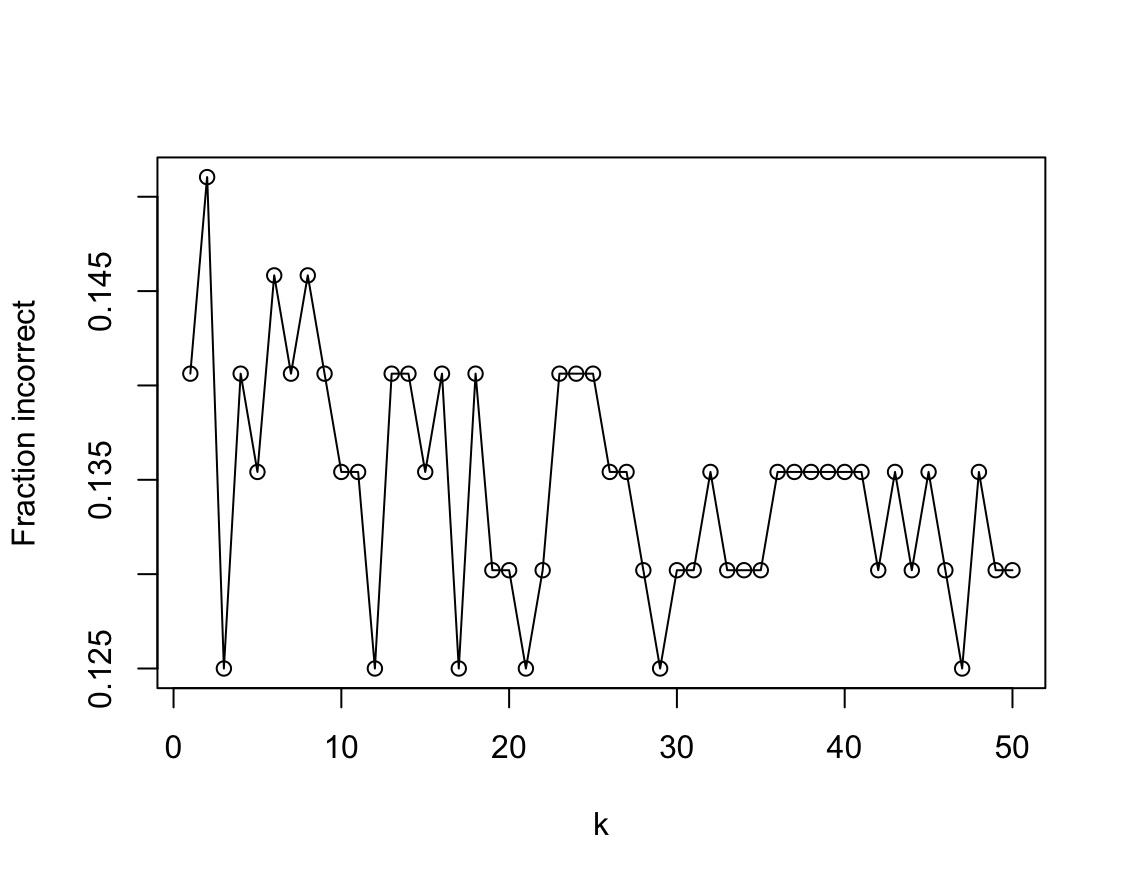
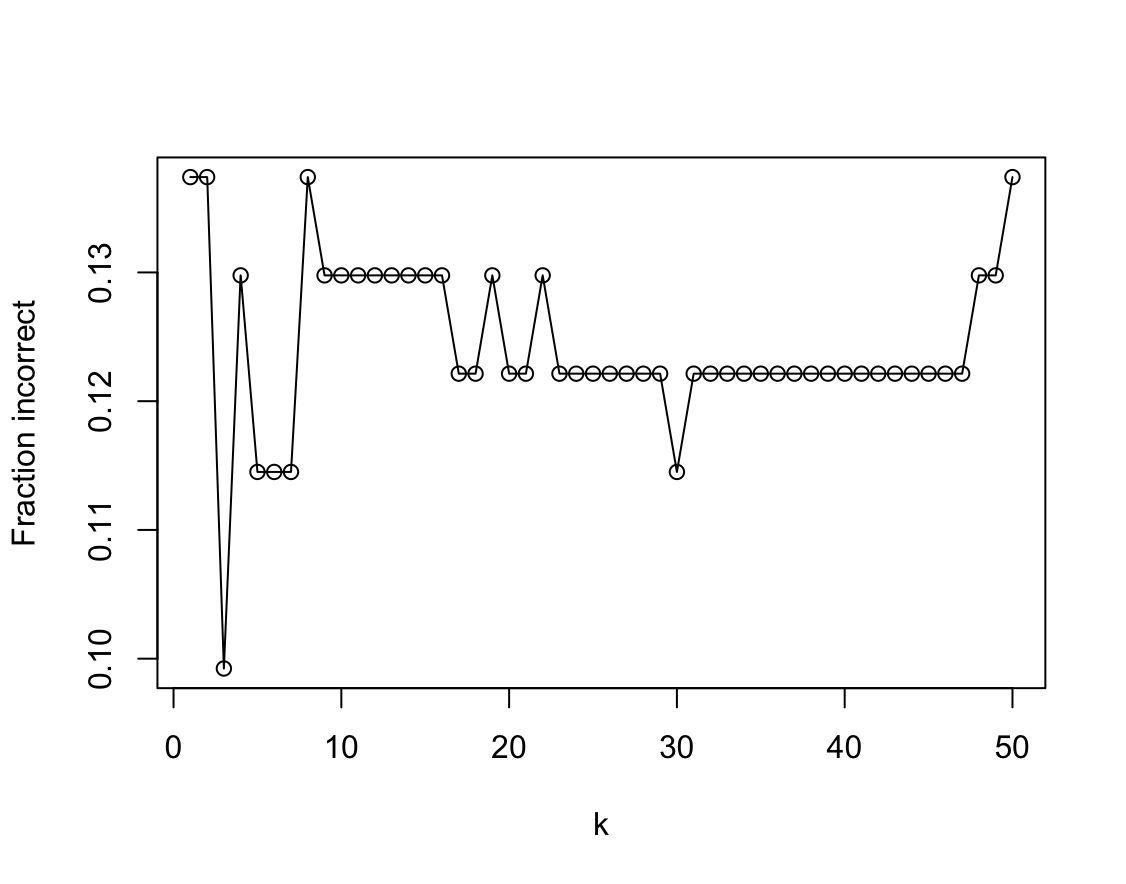
Fix problem with sample

diff --git a/docs/modelowanie/04_Classification.md b/docs/modelowanie/04_Classification.md
@@ -665,7 +665,7 @@ training data and 30% on the test data. Next we use 1-nearest neighbors (i.e. $K
 
     ```R
     set.seed(1)
-    train <- sample(Auto_2$mpg01, nrow(Auto_2) * 2 / 3)
+    train <- sample(nrow(Auto_2), nrow(Auto_2) * 2 / 3)
     ```
 
     (d) Perform LDA on the training data in order to predict `mpg01` using the variables that seemed most associated with `mpg01` in (b). What is the test error of the model obtained?
@@ -675,13 +675,13 @@ training data and 30% on the test data. Next we use 1-nearest neighbors (i.e. $K
     attach(Auto_2)
     fit.lda <- lda(mpg01 ~ cylinders + displacement + weight,
                    data = Auto_2[train,])
-    fit.lda.pred <- predict(fit.lda, Auto_2[!train,], type = "response")$class
-    t <- table(fit.lda.pred, Auto_2[!train, ]$mpg01)
+    fit.lda.pred <- predict(fit.lda, Auto_2[-train,], type = "response")$class
+    t <- table(fit.lda.pred, Auto_2[-train, ]$mpg01)
     1 - sum(diag(t)) / sum(t)
     ```
 
     ```R
-    [1] 0.09895833
+    [1] 0.1068702
     ```
 
     (e) Perform QDA on the training data in order to predict `mpg01` using the variables that seemed most associated with `mpg01` in (b). What is the test error of the model obtained?
@@ -689,13 +689,13 @@ training data and 30% on the test data. Next we use 1-nearest neighbors (i.e. $K
     ```R
     fit.qda <- qda(mpg01 ~ cylinders + displacement + weight,
                    data = Auto_2[train,])
-    fit.qda.pred <- predict(fit.qda, Auto_2[!train,], type = "response")$class
-    t <- table(fit.qda.pred, Auto_2[!train, ]$mpg01)
+    fit.qda.pred <- predict(fit.qda, Auto_2[-train,], type = "response")$class
+    t <- table(fit.qda.pred, Auto_2[-train, ]$mpg01)
     1 - sum(diag(t)) / sum(t)
     ```
 
     ```R
-    [1] 0.08854167
+    [1] 0.09923664
     ```
 
     (f) Perform logistic regression on the training data in order to predict `mpg01` using the variables that seemed most associated with `mpg01` in (b). What is the test error of the model obtained?
@@ -703,13 +703,13 @@ training data and 30% on the test data. Next we use 1-nearest neighbors (i.e. $K
     ```R
     fit.log <- glm(mpg01 ~ cylinders + displacement + weight, 
                    data = Auto_2[train, ], family = binomial)
-    fit.log.pred <- predict(fit.log, Auto_2[!train, ], type = "response") > 0.5
-    t <- table(fit.log.pred, Auto_2[!train, ]$mpg01)
+    fit.log.pred <- predict(fit.log, Auto_2[-train, ], type = "response") > 0.5
+    t <- table(fit.log.pred, Auto_2[-train, ]$mpg01)
     1 - sum(diag(t)) / sum(t)
     ```
 
     ```R
-    [1] 0.1041667
+    [1] 0.1145038
     ```
     
     (g) Perform naive Bayes on the training data in order to predict `mpg01` using the variables that seemed most associated with `mpg01` in (b). What is the test error of the model obtained?
@@ -718,28 +718,27 @@ training data and 30% on the test data. Next we use 1-nearest neighbors (i.e. $K
     library(e1071)
     fit.bayes <- naiveBayes(mpg01 ~ cylinders + displacement + weight,
                             data = Auto_2[train, ])
-    fit.bayes.pred <- predict(fit.bayes, Auto_2[!train, ], type = "class")
-    t <- table(fit.bayes.pred, Auto_2[!train, ]$mpg01)
+    fit.bayes.pred <- predict(fit.bayes, Auto_2[-train, ], type = "class")
+    t <- table(fit.bayes.pred, Auto_2[-train, ]$mpg01)
     1- sum(diag(t)) / sum(t)
     ```
 
     ```R
-    [1] 0.08333333
+    [1] 0.09923664
     ```
     
     (h) Perform KNN on the training data, with several values of $K$, in order to predict `mpg01`. Use only the variables that seemed most associated with `mpg01` in (b). What test errors do you obtain? Which value of $K$ seems to perform the best on this data set?
 
     ```R
     library(class)
-    set.seed(1)
     res <- sapply(1:50, function(k) {
     fit <- knn(
         Auto_2[train, 2:4, drop = FALSE],
-        Auto_2[!train, 2:4, drop = FALSE],
+        Auto_2[-train, 2:4, drop = FALSE],
         Auto_2$mpg01[train],
         k = k
     )
-    t <- table(fit, Auto_2[!train, ]$mpg01)
+    t <- table(fit, Auto_2[-train, ]$mpg01)
     1 - sum(diag(t)) / sum(t)
     })
 
@@ -851,20 +850,18 @@ training data and 30% on the test data. Next we use 1-nearest neighbors (i.e. $K
     Boston_2 <- cbind(Boston[, -1], data.frame("hcrim" = hcrim_ind))
 
     set.seed(1)
-    train <- sample(Boston_2$hcrim, nrow(Boston_2) * 2 / 3)
-
-    cor(Boston_2)
+    train <- sample(nrow(Boston_2), nrow(Boston_2) * 2 / 3)
 
     # Logistic Regression
 
     fit.log <- glm(hcrim ~ ., data = Boston_2[train, ], family = binomial)
-    fit.log.pred <- predict(fit.log, Boston_2[!train, ], type = "response") > 0.5
-    t <- table(fit.log.pred, Boston_2[!train, ]$hcrim)
+    fit.log.pred <- predict(fit.log, Boston_2[-train, ], type = "response") > 0.5
+    t <- table(fit.log.pred, Boston_2[-train, ]$hcrim)
     sum(diag(t)) / sum(t)
     ```
 
     ```R
-    [1] 0.9007634
+    [1] 0.8934911
     ```
 
     ```R
@@ -877,29 +874,29 @@ training data and 30% on the test data. Next we use 1-nearest neighbors (i.e. $K
         ])
 
     Coefficients:
-                Estimate Std. Error z value Pr(>|z|)    
-    (Intercept) -11.241360  13.196360  -0.852  0.39430    
-    zn           -0.132952   0.065654  -2.025  0.04286 *  
-    indus        -0.063790   0.081037  -0.787  0.43118    
-    chas          0.738854   1.099682   0.672  0.50166    
-    nox          49.969089  12.052130   4.146 3.38e-05 ***
-    rm           -1.027092   1.328245  -0.773  0.43936    
-    age           0.038082   0.020456   1.862  0.06265 .  
-    dis           0.676314   0.415199   1.629  0.10334    
-    rad           0.727380   0.242918   2.994  0.00275 ** 
-    tax          -0.004902   0.005278  -0.929  0.35304    
-    ptratio       0.580104   0.251369   2.308  0.02101 *  
-    black        -0.082943   0.031055  -2.671  0.00756 ** 
-    lstat        -0.016402   0.085840  -0.191  0.84847    
-    medv          0.259412   0.132911   1.952  0.05097 .  
+                  Estimate Std. Error z value Pr(>|z|)    
+    (Intercept) -41.102896   8.235788  -4.991 6.01e-07 ***
+    zn           -0.097831   0.046507  -2.104 0.035418 *  
+    indus        -0.065145   0.059410  -1.097 0.272845    
+    chas          0.255958   0.809541   0.316 0.751868    
+    nox          55.531358  10.386451   5.347 8.97e-08 ***
+    rm           -0.729283   0.938617  -0.777 0.437173    
+    age           0.022038   0.014381   1.532 0.125420    
+    dis           1.116906   0.312413   3.575 0.000350 ***
+    rad           0.680671   0.196508   3.464 0.000533 ***
+    tax          -0.005462   0.003226  -1.693 0.090489 .  
+    ptratio       0.335403   0.163873   2.047 0.040686 *  
+    black        -0.010103   0.005428  -1.861 0.062684 .  
+    lstat         0.126713   0.060729   2.087 0.036930 *  
+    medv          0.237806   0.093429   2.545 0.010918 *  
     ---
     Signif. codes:  0 ‘***’ 0.001 ‘**’ 0.01 ‘*’ 0.05 ‘.’ 0.1 ‘ ’ 1
 
     (Dispersion parameter for binomial family taken to be 1)
 
-        Null deviance: 338.19  on 243  degrees of freedom
-    Residual deviance:  88.76  on 230  degrees of freedom
-    AIC: 116.76
+        Null deviance: 467.04  on 336  degrees of freedom
+    Residual deviance: 131.91  on 323  degrees of freedom
+    AIC: 159.91
 
     Number of Fisher Scoring iterations: 9
     ```
@@ -907,14 +904,15 @@ training data and 30% on the test data. Next we use 1-nearest neighbors (i.e. $K
     > Usunę zmienne dla których $p$-value jest za wysokie
 
     ```R
-    fit.log <- glm(hcrim ~ zn + nox + age + rad + ptratio + black + medv, data = Boston_2[train, ], family = binomial)
-    fit.log.pred <- predict(fit.log, Boston_2[!train, ], type = "response") > 0.5
-    t <- table(fit.log.pred, Boston_2[!train, ]$hcrim)
+    fit.log <- glm(hcrim ~ zn + nox + dis + rad + tax + ptratio + black +
+                   lstat + medv, data = Boston_2[train, ], family = binomial)
+    fit.log.pred <- predict(fit.log, Boston_2[-train, ], type = "response") > 0.5
+    t <- table(fit.log.pred, Boston_2[-train, ]$hcrim)
     sum(diag(t)) / sum(t)
     ```
 
     ```R
-    [1] 0.8664122
+    [1] 0.8698225
     ```
 
     ```R
@@ -923,42 +921,32 @@ training data and 30% on the test data. Next we use 1-nearest neighbors (i.e. $K
 
     ```R
     Call:
-    glm(formula = hcrim ~ zn + nox + age + rad + ptratio + black + 
-        medv, family = binomial, data = Boston_2[train, ])
+    glm(formula = hcrim ~ zn + nox + dis + rad + tax + ptratio + 
+        black + lstat + medv, family = binomial, data = Boston_2[train, 
+        ])
 
     Coefficients:
-                Estimate Std. Error z value Pr(>|z|)    
-    (Intercept) -4.92352   10.16471  -0.484 0.628121    
-    zn          -0.08096    0.04544  -1.782 0.074786 .  
-    nox         27.90504    6.49764   4.295 1.75e-05 ***
-    age          0.01496    0.01282   1.168 0.242916    
-    rad          0.64605    0.18003   3.589 0.000332 ***
-    ptratio      0.42044    0.19446   2.162 0.030606 *  
-    black       -0.06563    0.02463  -2.665 0.007701 ** 
-    medv         0.14621    0.05588   2.616 0.008892 ** 
+                  Estimate Std. Error z value Pr(>|z|)    
+    (Intercept) -38.372956   7.524892  -5.099 3.41e-07 ***
+    zn           -0.099362   0.042410  -2.343  0.01914 *  
+    nox          49.956044   8.616373   5.798 6.72e-09 ***
+    dis           0.924759   0.287264   3.219  0.00129 ** 
+    rad           0.738887   0.178274   4.145 3.40e-05 ***
+    tax          -0.006690   0.002895  -2.311  0.02085 *  
+    ptratio       0.277096   0.139538   1.986  0.04705 *  
+    black        -0.009730   0.005274  -1.845  0.06504 .  
+    lstat         0.131937   0.055537   2.376  0.01752 *  
+    medv          0.164220   0.050523   3.250  0.00115 ** 
     ---
     Signif. codes:  0 ‘***’ 0.001 ‘**’ 0.01 ‘*’ 0.05 ‘.’ 0.1 ‘ ’ 1
 
     (Dispersion parameter for binomial family taken to be 1)
 
-        Null deviance: 338.190  on 243  degrees of freedom
-    Residual deviance:  97.204  on 236  degrees of freedom
-    AIC: 113.2
+        Null deviance: 467.04  on 336  degrees of freedom
+    Residual deviance: 136.04  on 327  degrees of freedom
+    AIC: 156.04
 
     Number of Fisher Scoring iterations: 9
-    ```
-
-    > Jeszcze raz to samo
-
-    ```R
-    fit.log <- glm(hcrim ~ zn + nox + rad + ptratio + black + medv, data = Boston_2[train, ], family = binomial)
-    fit.log.pred <- predict(fit.log, Boston_2[!train, ], type = "response") > 0.5
-    t <- table(fit.log.pred, Boston_2[!train, ]$hcrim)
-    sum(diag(t)) / sum(t)
-    ```
-
-    ```R
-    [1] 0.8740458
     ```
 
     > Jak na razie model zawierający wszystkie zmienne jest najlepszy, zostawię w modelu zmienne, które mają najwyższą korelację.
@@ -1017,13 +1005,13 @@ training data and 30% on the test data. Next we use 1-nearest neighbors (i.e. $K
 
     ```R
     fit.log <- glm(hcrim ~ nox + rad, data = Boston_2[train, ], family = binomial)
-    fit.log.pred <- predict(fit.log, Boston_2[!train, ], type = "response") > 0.5
-    t <- table(fit.log.pred, Boston_2[!train, ]$hcrim)
+    fit.log.pred <- predict(fit.log, Boston_2[-train, ], type = "response") > 0.5
+    t <- table(fit.log.pred, Boston_2[-train, ]$hcrim)
     sum(diag(t)) / sum(t)
     ```
 
     ```R
-    [1] 0.8587786
+    [1] 0.8579882
     ```
 
     > Brak poprawy względem modelu zawierającego wszystkie zmienne.
@@ -1032,26 +1020,26 @@ training data and 30% on the test data. Next we use 1-nearest neighbors (i.e. $K
     # LDA
 
     fit.lda <- lda(hcrim ~ ., data = Boston_2[train,])
-    fit.lda.pred <- predict(fit.lda, Boston_2[!train,], type = "response")$class
-    t <- table(fit.lda.pred, Boston_2[!train, ]$hcrim)
+    fit.lda.pred <- predict(fit.lda, Boston_2[-train,], type = "response")$class
+    t <- table(fit.lda.pred, Boston_2[-train, ]$hcrim)
     sum(diag(t)) / sum(t)
     ```
 
     ```R
-    [1] 0.851145
+    [1] 0.8402367
     ```
 
     ```R
     # Naive Bayes
 
     fit.bayes <- naiveBayes(hcrim ~ ., data = Boston_2[train, ])
-    fit.bayes.pred <- predict(fit.bayes, Boston_2[!train, ], type = "class")
-    t <- table(fit.bayes.pred, Boston_2[!train, ]$hcrim)
+    fit.bayes.pred <- predict(fit.bayes, Boston_2[-train, ], type = "class")
+    t <- table(fit.bayes.pred, Boston_2[-train, ]$hcrim)
     sum(diag(t)) / sum(t)
     ```
 
     ```R
-    [1] 0.8358779
+    [1] 0.8047337
     ```
 
     ```R
@@ -1061,11 +1049,11 @@ training data and 30% on the test data. Next we use 1-nearest neighbors (i.e. $K
     res <- sapply(1:50, function(k) {
       fit <- knn(
         Boston_2[train, c("nox", "rad"), drop = FALSE],
-        Boston_2[!train, c("nox", "rad"), drop = FALSE],
+        Boston_2[-train, c("nox", "rad"), drop = FALSE],
         Boston_2$hcrim[train],
         k = k
     )
-      t <- table(fit, Boston_2[!train, ]$hcrim)
+      t <- table(fit, Boston_2[-train, ]$hcrim)
       sum(diag(t)) / sum(t)
     })
 
@@ -1075,7 +1063,7 @@ training data and 30% on the test data. Next we use 1-nearest neighbors (i.e. $K
 
     ```R
     [1] 1
-    [1] 0.9580153
+    [1] 0.9704142
     ```
 
     > Ostatecznie najlepiej klasyfikuje model KNN z $K=1$ ale ze zmniejszoną liczbą zmiennych: `nox`, `rad`.
